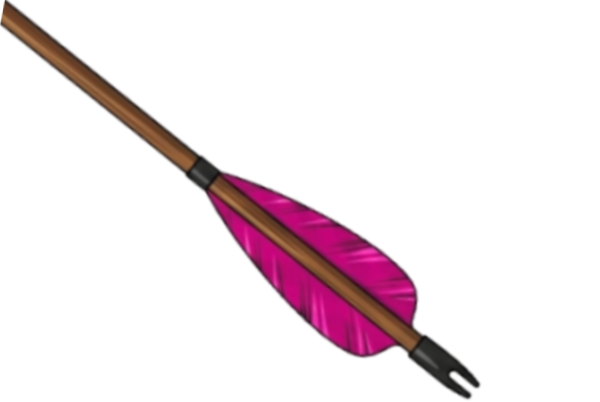
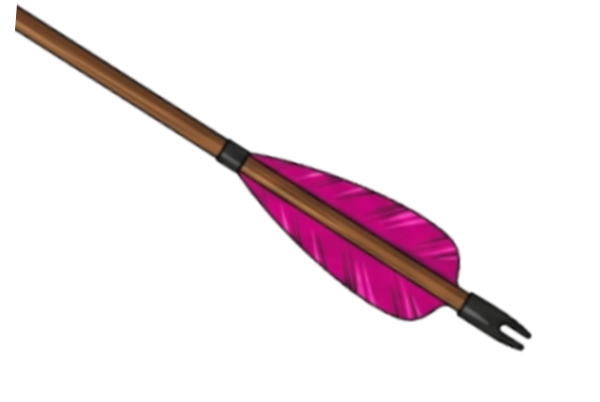
fix diana

Changed region(s): [[0.0, 0.0, 0.9, 1.0]]

diff --git a/assets/buddy/modules/archery/buddy_archery.js b/assets/buddy/modules/archery/buddy_archery.js
@@ -35,6 +35,7 @@
     // original para poder devolverla exactamente a su lugar y tamaño.
     var pageTargetVisualState = null;
     var pageTargetRestoreTimer = null;
+    var pageTargetBlurSyncRunning = false;
     var pageTargetLastScoreSumAt = 0;
     var pageTargetAnimationToken = 0;
   
@@ -1544,6 +1545,28 @@ function ensureElements() {
     updateAimFocusArrowLayers();
   }
 
+  function startPageTargetBlurSync() {
+    if (pageTargetBlurSyncRunning) return;
+    pageTargetBlurSyncRunning = true;
+
+    function frame() {
+      if (!aimFocusActive) {
+        pageTargetBlurSyncRunning = false;
+        return;
+      }
+
+      var target = getTargetEl();
+      if (isPageDomTarget(target)) {
+        updateAimFocusGeometry();
+        updateAimFocusArrowLayers();
+      }
+
+      requestAnimationFrame(frame);
+    }
+
+    requestAnimationFrame(frame);
+  }
+
   function showAimFocus() {
     if (!isAimBlurEnabled()) return;
     var el = ensureAimFocusElement();
@@ -1903,6 +1926,10 @@ function enterAimState() {
     // Efecto de concentración: se activa al entrar en aiming, pero puede
     // haber sido deshabilitado por CONFIG o por la API pública.
     showAimFocus();
+    // La diana DOM se transforma con una transición CSS. El blur debe leer
+    // su getBoundingClientRect() en cada frame para acompañar simultáneamente
+    // el desplazamiento y el cambio de tamaño, no solo su estado inicial/final.
+    startPageTargetBlurSync();
 
     // Arranca el pulso de latido (v0.4) en reposo: sin intensidad hasta que
     // el primer pointermove aporte una velocidad real que medir. El

diff --git a/_layouts/default.html b/_layouts/default.html
@@ -43,7 +43,7 @@
 <script src="{{ '/assets/js/user.js?v=3' | relative_url }}"></script>
 <script src="{{ '/assets/js/menuuser.js?v=3' | relative_url }}"></script>
   <script
-    src="/assets/buddy/buddy.js?v=7"
+    src="/assets/buddy/buddy.js?v=8"
     data-buddy-character="raulito"
     data-buddy-abilities="auth archery"
     defer>
